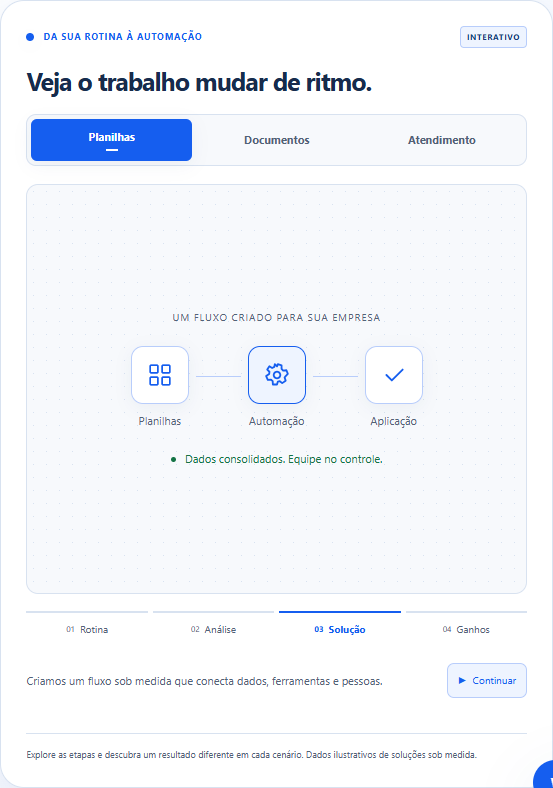
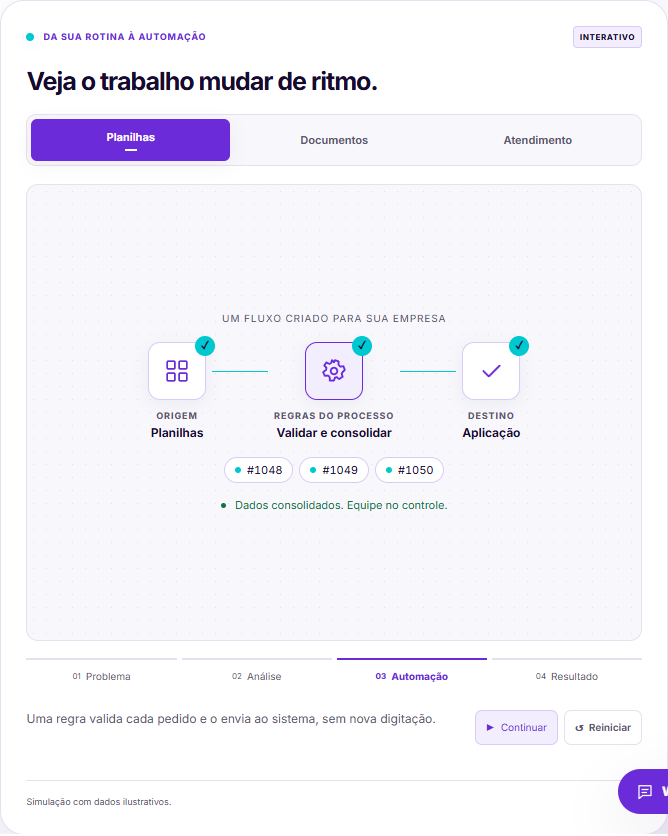
V4 E6: final screenshots, README and results report

diff --git a/docs/REDESIGN_V4_RESULTADOS.md b/docs/REDESIGN_V4_RESULTADOS.md
@@ -1,0 +1,153 @@
+# Redesign V4 — resultados
+
+Redesign visual-first da homepage, executado em 10/11/2026 na branch `feature/luminor-visual-first-v4`. Nada foi publicado: a branch não foi enviada ao GitHub, não houve merge na `main` nem deploy.
+
+## Commits
+
+| Entrega | Commit | Conteúdo |
+|---|---|---|
+| Base | `ce2229e` | Ponto de partida: V3.1 (E01–E05), ainda local e fora da `main` |
+| 1 | `a7ce70a` | Linha de base, auditoria de texto e capturas |
+| 2 | `7fd3d1f` | Nova estrutura e textos da homepage |
+| 3 | `c150466` | Capturas WebP nos cartões e refinamentos visuais |
+| 4 | `7e7f74c` | Refinamento das demonstrações da galeria |
+| 5 | `af1128c` | Allowlist de Analytics das demonstrações e verificações de qualidade |
+| 6 | commit deste relatório | Capturas finais, README e relatório |
+
+## Estrutura antes e depois
+
+| Antes (9 seções) | Depois (6 seções) | Decisão |
+|---|---|---|
+| `#inicio` hero + faixa 01/02/03 | `#inicio` | Mantido. Nova mensagem e CTAs, divisão 44/56 no desktop. Faixa, rodapé e avatares removidos. A demonstração `#automation-demo` foi preservada |
+| `#solucoes` | `#solucoes` | Mantido e encurtado. Cada cartão tem captura, nome, uma frase e link para a página do serviço |
+| `#integracoes-lab` | Aba "Integração de sistemas" de `#demonstracoes` | Unido à galeria. O id `integracoes-lab` continua no painel da aba |
+| — | `#demonstracoes` | **Novo**: galeria "Veja a tecnologia funcionando." com 3 abas |
+| `#metodo` | `#metodo` | Mantido como trilha visual de 4 etapas |
+| `#processos` | — | Removido. Os exemplos antes/depois repetiam o hero e os cartões |
+| `#simulador` (cena da equipe) | — | Removido. Era uma ilustração animada pesada, com a mesma ideia de antes/depois |
+| `#diferenciais` | 3 critérios dentro de `#metodo` | Unido ao método |
+| `#faq` | `#faq` | Mantido e recolhido, com introdução de uma linha |
+| `#contato` | `#contato` | Novo título e descrição. Formulário, consentimento e WhatsApp sem mudança de comportamento |
+| `<dialog>` do painel | Painel inline na aba "Sistema de gestão" | O botão do resultado do hero ("Ver painel completo") leva à aba com o mesmo cenário e período |
+
+Links de outras páginas (`/#solucoes`, `/#metodo`, `/#faq`, `/#contato`) continuam válidos. Os ids removidos não tinham links externos.
+
+## Texto visível
+
+Medido com `node tests/homepage_text_audit.cjs` (1440 × 900, movimento reduzido; respostas do FAQ recolhidas e abas ocultas não contam).
+
+| Medida | Antes | Depois | Variação |
+|---|---:|---:|---:|
+| Texto explicativo | 772 palavras | 310 palavras | **−59,8%** |
+| Todo o texto visível do `<main>` | 1238 | 590 | −52% |
+| Altura da página (desktop) | 9813 px | 5988 px | −39% |
+| Altura da página (390 px) | 16185 px | 9988 px | −38% |
+
+Por seção (explicativo, antes → depois): hero 60 → 34; soluções 171 → 88; método + sobre 201 → 82; exemplos e equipe 231 → 0; demonstrações 20 → 39; FAQ 36 → 21; contato 53 → 46.
+
+A primeira versão da entrega 2 cortou 70%, acima da faixa do plano. Linhas úteis foram devolvidas: nota de confiança no hero, frase sobre a Luminor no método, introdução do FAQ e checklist do contato. Isso trouxe o corte para a faixa de 50–60%.
+
+## Textos principais
+
+- Identificador: “Software e automação sob medida”. O plano sugeria “para pequenos negócios”, o que conflita com uma orientação anterior de não usar esse termo.
+- H1: “Sistemas e automações que simplificam seu negócio.”
+- Descrição: “Transformamos tarefas repetitivas, planilhas e processos manuais em soluções fáceis de usar.”
+- CTAs: “Quero automatizar meu negócio” e “Ver soluções na prática”.
+- Cartões: Automação, Sistemas sob medida, Integrações e Atendimento, com as frases do plano (com pequenos complementos, todas com até 20 palavras).
+- Contato: “Qual tarefa está tomando tempo da sua equipe?” / “Conte seu desafio. Vamos avaliar uma solução sob medida.” / botão “Falar com a Luminor”.
+
+## Imagens e origem
+
+| Arquivo | Origem | Tamanho |
+|---|---|---|
+| `public/assets/img/demos/automacao-{480,960}.webp` | Captura da demonstração "Automação de processos" da própria galeria | 11,9 KB / 32,1 KB |
+| `sistemas-{480,960}.webp` | Captura do painel "Controle de pedidos" (dados fictícios) | 9,3 KB / 23,0 KB |
+| `integracoes-{480,960}.webp` | Captura do laboratório de integrações após uma simulação | 15,3 KB / 44,4 KB |
+| `atendimento-{480,960}.webp` | Captura do resultado "Atendimento" do hero (tickets fictícios) | 10,1 KB / 30,3 KB |
+
+- Todas foram geradas por `scripts/capture_demo_shots.cjs`: Chrome via Playwright, recorte 16:10 e conversão WebP no canvas.
+- Não há imagens de internet, imagens geradas por IA nem telas de clientes.
+- Nos cartões, as imagens têm `width`/`height`, `srcset`, `sizes`, `loading="lazy"`, `decoding="async"` e alt descritivo que identifica a captura como demonstração com dados fictícios.
+
+## Componentes novos ou alterados
+
+- `experiences/gallery.js`: abas acessíveis (WAI-ARIA tabs, setas/Home/End). Sem JavaScript, os painéis aparecem empilhados.
+- `experiences/process-runner.js`: demonstração origem → regras → destino com 5 documentos fictícios, um enviado para revisão.
+  - Executar, pausar, continuar e reiniciar.
+  - Pausa em aba oculta, fora da tela e ao trocar de aba.
+  - Com movimento reduzido, mostra o resultado na hora.
+- `experiences/dashboard.js`: o painel funciona inline (e ainda em `<dialog>`, se usado), com tamanho de página configurável (5 registros na galeria) e KPIs compactos.
+- `experiences/integrations.js`: expõe `finish()`. Trocar de aba conclui a simulação na hora.
+- `app.js`:
+  - Removida a cena da equipe.
+  - Nova entrada suave de cartões e da trilha do método (só `transform`/`opacity`, desligada com movimento reduzido).
+  - A sombra do cabeçalho ao rolar já existia.
+- CSS:
+  - 21 KB removidos de `styles.css`: regras só usadas pelas seções retiradas, mais keyframes órfãos.
+  - Bloco V4 em `experiences.css`: hero, cartões, galeria, janelas de aplicativo, automação e trilha do método.
+
+## Funcionalidades preservadas
+
+- URLs, title, description, canonical, Open Graph, JSON-LD, sitemap, robots, páginas de serviço, segmento e artigos: sem alteração (verificado por `tests/seo.test.js`).
+- Formulário: validação, mensagem preparada e abertura do WhatsApp sem mudança. A abertura do WhatsApp continua contando só como `click_whatsapp`, nunca como lead confirmado (verificado em `visual_check.cjs`).
+- Consentimento e GA4: nenhuma requisição antes do aceite; revogação remove a tag (`site_consent_browser.cjs` e `browser_check.cjs`).
+- Analytics das demonstrações:
+  - Eventos: `demo_flow_start`, `demo_flow_complete`, `demo_scenario_select`, `dashboard_filter`, `integration_simulate` e `integration_error_demo`.
+  - Parâmetros: só `scenario`, `component` e `action`.
+  - Conferido no navegador: nada é enviado antes do aceite, e nenhum dado digitado aparece nos eventos.
+  - Isso conclui o item pendente E06 da V3.1.
+- CSP: nenhum script externo novo, nenhum `eval` ou `innerHTML` nos módulos (teste de varredura em `integrations.test.js`).
+
+## Testes
+
+| Verificação | Resultado |
+|---|---|
+| `npm test` | 51/51 aprovados (5 testes novos em `tests/homepage-v4.test.js`) |
+| `tests/browser_check.cjs` | Aprovado em 320, 375, 390, 768, 900, 1024 e 1440 px: layout sem overflow, âncoras, menu, teclado, galeria, painel, automação, laboratório, movimento reduzido e animado |
+| `tests/visual_check.cjs` | Contraste ≥ 4,5:1 em 390 e 1440 px, incluindo os novos estados da galeria |
+| `tests/site_consent_browser.cjs` | Aprovado |
+
+Testes atualizados, não desativados: H1, ordem das seções, âncoras e menu, painel inline em vez de diálogo, galeria e CTAs das demonstrações. `tests/team_motion_check.cjs` foi removido junto com a cena da equipe (não fazia parte do CI); `docs/QA_RESULTADOS.md` ainda cita esse arquivo como registro histórico.
+
+## Performance (laboratório)
+
+Playwright + Chrome, mediana de 3 execuções, com interações nas demonstrações; mobile 390 × 844 com CPU 4×.
+
+| Medida | Antes (mobile) | Depois (mobile) | Antes (desktop) | Depois (desktop) |
+|---|---:|---:|---:|---:|
+| LCP | 620 ms | 624 ms | 180 ms | 172 ms |
+| CLS | 0 | 0 | 0,064 | 0,017 |
+| INP (aproximação por event timing) | 144 ms | 80 ms | 48 ms | 48 ms |
+
+- Os valores ficam dentro das metas do plano (LCP ≤ 2,5 s, INP ≤ 200 ms, CLS ≤ 0,1) neste ambiente de laboratório. Não são dados de campo.
+- **Lighthouse não foi executado**: a ferramenta não está instalada no projeto e não foi baixada. A meta de Lighthouse ≥ 90 fica sem evidência.
+- Peso (gzip), em relação a `ce2229e`:
+  - HTML: 13,7 → 11,5 KB.
+  - CSS (styles + experiences): 23,2 → 21,8 KB.
+  - JS: `app.js` 3,9 → 3,1 KB; módulos das experiências ≈ 23,3 KB.
+  - Imagens novas (versões de 480 px, carregamento tardio): 46,5 KB.
+
+## Capturas
+
+Em `docs/redesign-v4/`:
+
+- `baseline-*.jpg` e `final-*.jpg`: desktop 1440 e mobile 390, primeira dobra e página completa. Comparam o antes e o depois.
+- `baseline-texto.json` e `final-texto.json`: contagens completas por seção.
+
+Os testes também atualizaram `screenshots/`, incluindo `Luminor_Galeria_Automacao_*`, `Luminor_Painel_*` e `Luminor_Integracoes_*`. As capturas `Luminor_Equipe_*` e `Luminor_Claro_simulador_*` ficaram obsoletas e não foram apagadas.
+
+## Problemas encontrados e correções
+
+- O painel inline aparecia vazio: antes ele era montado só ao abrir o diálogo. Agora é montado ao carregar.
+- A linha da trilha do método passava da última etapa. O fim da linha agora é calculado pela largura das colunas.
+- As capturas pegavam o cabeçalho fixo e cortavam nomes. O script de captura deixa o cabeçalho estático e usa larguras fixas.
+- O corte de texto passou da faixa do plano (70%). Linhas úteis foram devolvidas até −59,8%.
+
+## Pendências
+
+- Revisar a branch e decidir sobre o envio ao GitHub para gerar o preview da Vercel.
+  - A branch inclui a V3.1 (E01–E05), que também não está na `main`.
+- Depois de qualquer merge na `main`, rodar `npm run seo:check` no domínio publicado.
+- Rodar Lighthouse (por exemplo, no PageSpeed Insights) no preview da Vercel para ter evidência da meta ≥ 90.
+- Validar os novos eventos no DebugView do GA4 depois da publicação.
+- Opcional: apagar as capturas obsoletas da cena da equipe em `screenshots/`.

diff --git a/README.md b/README.md
@@ -13,7 +13,14 @@ npm test
 npm run build
 ```
 
-`npm test` cobre API local, metadados, sitemap, páginas, consentimento e mensuração. `npm run build` regenera `public/sitemap.xml`. Para atualizar as páginas estáticas comerciais e artigos a partir do conteúdo-fonte do gerador, execute `node scripts/create_seo_pages.mjs`. Para gerar a prévia independente: `python scripts/build_standalone.py`.
+`npm test` cobre API local, metadados, sitemap, páginas, consentimento e mensuração. `npm run build` regenera `public/sitemap.xml`. Para atualizar as páginas estáticas comerciais e artigos a partir do conteúdo-fonte do gerador, execute `node scripts/create_seo_pages.mjs`. Para gerar a prévia independente: `npm run build:preview` (gera `PREVIA_AUTONOMA.html`, usada por `tests/browser_check.cjs`).
+
+A homepage segue o redesign V4 (visual-first): hero com demonstração, quatro soluções com capturas das próprias simulações, galeria "Veja a tecnologia funcionando." (automação, sistema de gestão e integração), método, FAQ e contato. As demonstrações ficam em `public/assets/js/experiences/` (módulos ES nativos, sem build). Com o servidor local ativo:
+
+- `node scripts/capture_demo_shots.cjs` regenera as capturas WebP de `public/assets/img/demos/`;
+- `node tests/homepage_text_audit.cjs <rótulo> <pasta>` conta o texto visível por seção e salva capturas da página.
+
+Linha de base e resultados: `docs/REDESIGN_V4_BASELINE.md` e `docs/REDESIGN_V4_RESULTADOS.md`.
 
 O GitHub Actions executa verificações Chromium de consentimento, responsividade, movimento reduzido e contraste. Para rodar localmente com Playwright e Chrome instalados, use `tests/site_consent_browser.cjs`, `tests/browser_check.cjs` e `tests/visual_check.cjs`.
 
